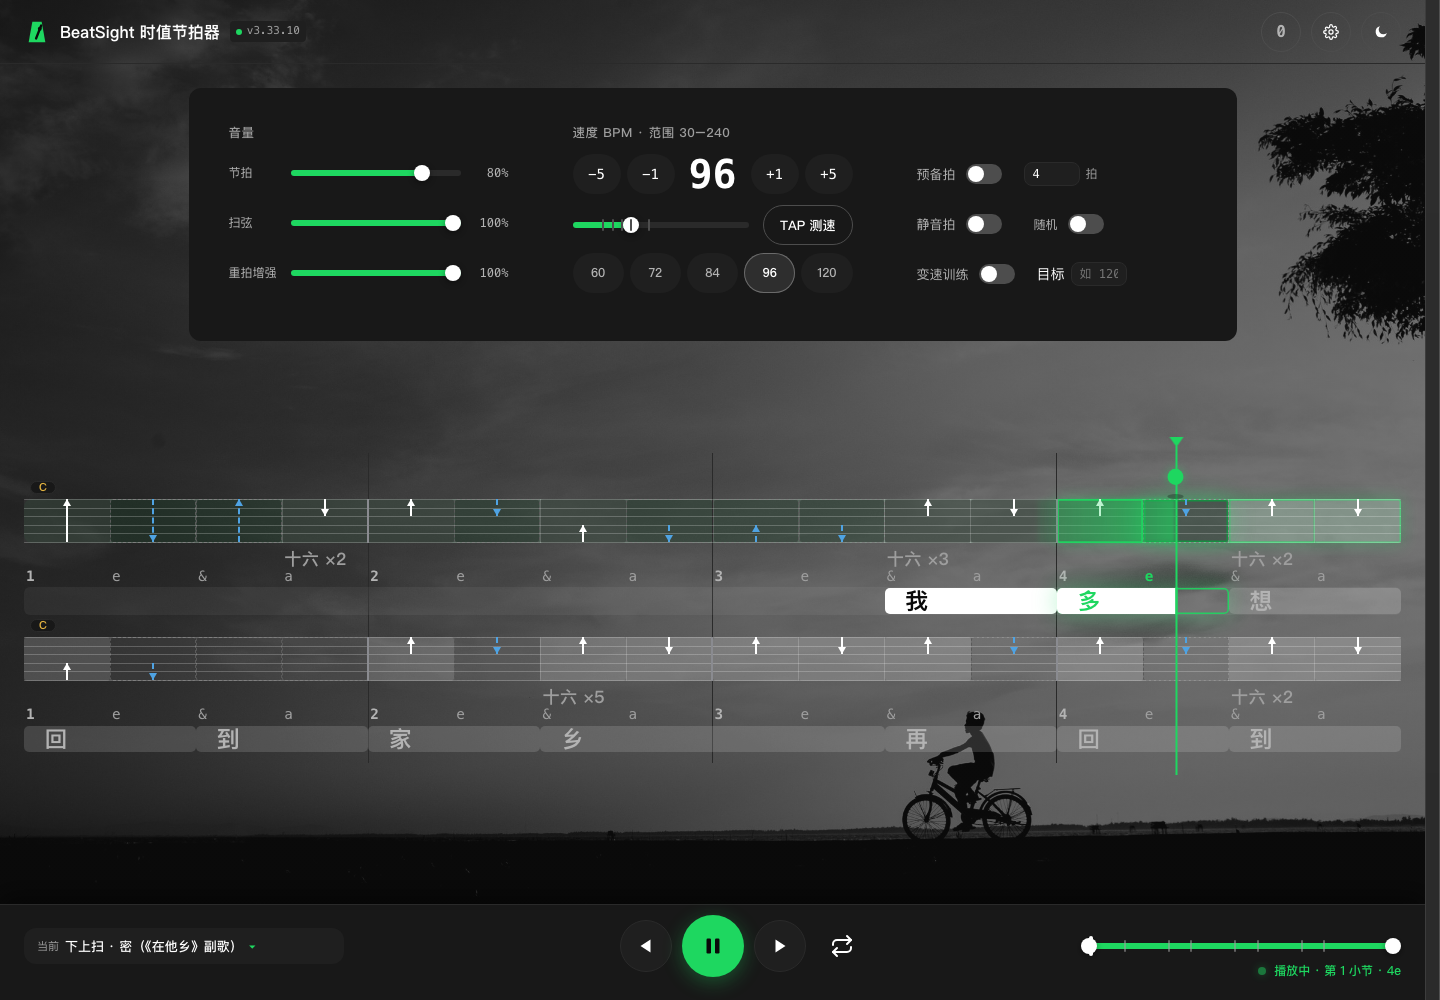
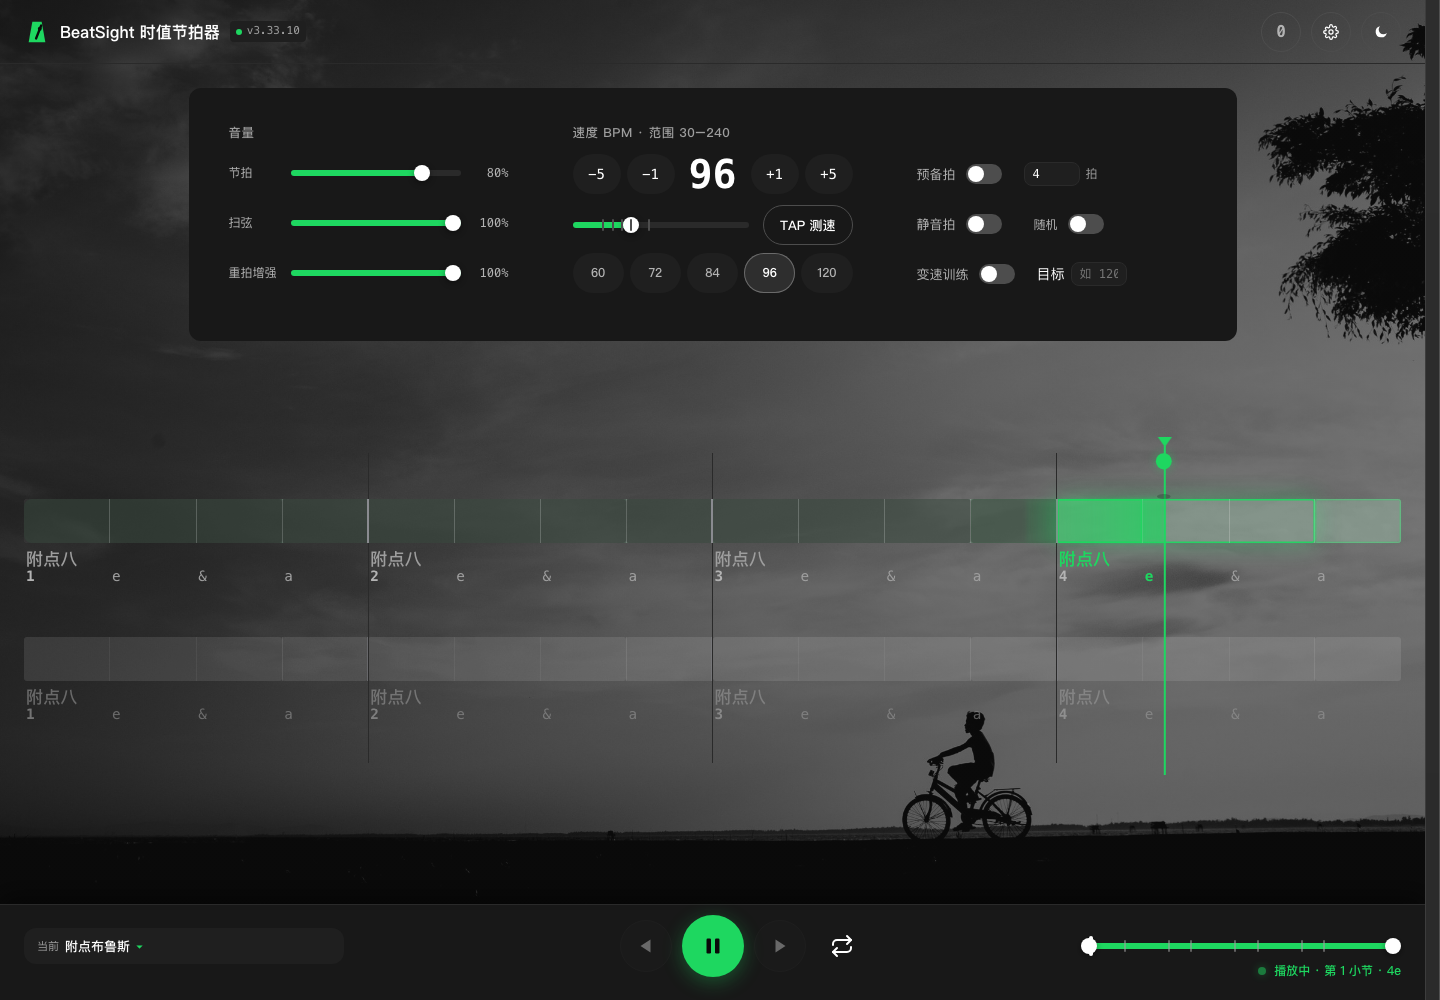
fix(v3.33.11): 窄屏跳段双滑块居中（6.5px→3px）+ README 配图按文案与播放态重拍
窄屏底栏的跳段/循环双滑块实测轨道中心 188.5 vs 视口中心 195（差 6.5px）⇒ 加
@media (max-width:640px){.demo-range-track{margin-left:6.5px}}，实测收到 192（残差 3px，右缘被同一行的
状态灯钉住，彻底居中需重排那一行，留作后续）。

README 配图：主界面两张改为「附点布鲁斯」播放态以匹配表内文案；手机图改为播放中段拍摄；六条路径带 ?v= 版本串。

自验：check-all 18/18；轨道中心 188.5 -> 192。

diff --git a/index.html b/index.html
@@ -791,7 +791,10 @@ section.card{width:1048px;max-width:100%;margin-inline:auto}
 #lyricPosGroup{margin-left:14px}
 #lyricPosGroup .pill{font-size:12px;padding:6px 10px}
 /* v3.33.10（用户清单 1）：三块语义小标题——作为整行插进现有 .bpm-row，胶囊在其下自然成组 */
-.bpm-row .group-label{flex:1 1 100%;width:100%;margin-top:20px;margin-bottom:-2px}   /* -2px：把组内距离压回全站既有的 10px（.bpm-row 行距 12 时，标题离内容 = 10），不这样会与 Swing/延迟补偿等组的 10px 打架（实测两套值 14/10 忽紧忽松） */   /* v3.33.10：小标题作为**整行**——不能绑 .viz-head-grid（设置弹窗不在其内，选择器会空转，标签退化成行内元素挤在上一行末尾，实拍已见） */
+.bpm-row .group-label{flex:1 1 100%;width:100%;margin-top:20px;margin-bottom:-2px}
+/* v3.33.10（用户实拍）：窄屏底栏的跳段双滑块控件略偏左——实测轨道中心 188.5 vs 视口中心 195
+   （差 6.5px）。这一行把它按回视口中心（只在窄屏生效）。 */
+@media (max-width:640px){.demo-range-track{margin-left:6.5px}}   /* -2px：把组内距离压回全站既有的 10px（.bpm-row 行距 12 时，标题离内容 = 10），不这样会与 Swing/延迟补偿等组的 10px 打架（实测两套值 14/10 忽紧忽松） */   /* v3.33.10：小标题作为**整行**——不能绑 .viz-head-grid（设置弹窗不在其内，选择器会空转，标签退化成行内元素挤在上一行末尾，实拍已见） */
 .lyric-lane{position:relative;margin-top:10px;display:flex;flex-direction:column;gap:4px}
 .lyric-lane[hidden]{display:none}
 /* v2.86.0：伴随节奏模式 = 覆盖层（#lyricLane 切绝对定位，叠到 #viz 上，逐行 translateY）。
@@ -3434,23 +3437,23 @@ body[data-theme="obs"] .help-fig text[fill="#fff"]{fill:var(--t1)}
               → v1.1.1 播放中切节奏型「点下即生效」（相位就地接续，不再等小节边界）
    模块索引（IIFE，按依赖方向排序，禁止反向引用）：
      行号为 index.html 绝对行号，仅作文件内导航；在其之前增删代码后需整体重算。
-     L3466  数据          版本号 / TPB 常量 / CONFIG / 内置节奏型数据
-     L4151  Store         持久化 / 状态创建 / 数据迁移 / 预设导入导出
-     L5883  共享状态      跨模块可变状态（S/customs/draft/appliedPat/activePattern + $ / clear 等助手）
-     L6845  Modal         应用内弹窗
-     L6990  Viz           时值可视化渲染与每帧动画
-     L10366 AudioEngine         Web Audio 引擎与前瞻调度（含 swing 偏移）
-     L11047 Trainer       变速训练器
-     L11257 Controls      播放控制 / BPM / 拍号 / Swing / 重拍分组 / 音量 / 静音拍
-     L11905 Presets       预设库（节拍 / 扫弦 / 自定义 三区）/ 拍号对齐 / 播放中切换挂起
-     L13496 Editor        自定义节奏型编辑器
-     L14040 Settings      设置弹窗（v2.10.12：主题 / 弹跳球 / 六线底纹 / 音色 / 导入导出 / 使用方法入口）
-     L14087 Ear           听辨训练（v1.10.0）
-     L14315 Arrange       曲式编排（v2.0.0）
-     L17244 Help          使用方法（v2.0.1）
-     L17373 KeepAlive     后台保活（v1.4：wakeLock + 静音循环音频兜底，只读共享状态）
-     L17447 Diagnostics   诊断与产物戳记（v2.0.4 立；v2.19.0 由装配层抽出：计数器 / 错误环形缓冲 / 产物戳记自检）
-     L17690 初始化（装配） 各模块 hook 接线与启动
+     L3469  数据          版本号 / TPB 常量 / CONFIG / 内置节奏型数据
+     L4154  Store         持久化 / 状态创建 / 数据迁移 / 预设导入导出
+     L5886  共享状态      跨模块可变状态（S/customs/draft/appliedPat/activePattern + $ / clear 等助手）
+     L6848  Modal         应用内弹窗
+     L6993  Viz           时值可视化渲染与每帧动画
+     L10369 AudioEngine         Web Audio 引擎与前瞻调度（含 swing 偏移）
+     L11050 Trainer       变速训练器
+     L11260 Controls      播放控制 / BPM / 拍号 / Swing / 重拍分组 / 音量 / 静音拍
+     L11908 Presets       预设库（节拍 / 扫弦 / 自定义 三区）/ 拍号对齐 / 播放中切换挂起
+     L13499 Editor        自定义节奏型编辑器
+     L14043 Settings      设置弹窗（v2.10.12：主题 / 弹跳球 / 六线底纹 / 音色 / 导入导出 / 使用方法入口）
+     L14090 Ear           听辨训练（v1.10.0）
+     L14318 Arrange       曲式编排（v2.0.0）
+     L17247 Help          使用方法（v2.0.1）
+     L17376 KeepAlive     后台保活（v1.4：wakeLock + 静音循环音频兜底，只读共享状态）
+     L17450 Diagnostics   诊断与产物戳记（v2.0.4 立；v2.19.0 由装配层抽出：计数器 / 错误环形缓冲 / 产物戳记自检）
+     L17693 初始化（装配） 各模块 hook 接线与启动
    边界规则：
      1. 模块间只通过对方暴露的接口通信（如 Trainer.updateProg()），禁止直读内部变量
      2. 跨模块共享的可变状态集中在「共享状态」区（位于 Store 之后、其余模块之前）：
@@ -3476,7 +3479,7 @@ body[data-theme="obs"] .help-fig text[fill="#fff"]{fill:var(--t1)}
    发版规则（v1.6.4 起）：每次发版都 bump 这一行，不分功能版与工程版。此前 v1.6.1~v1.6.4 连发
    四版都没动它，线上徽章长期停在 v1.6.0——版本号是用户判断「更新到底生效没有」的唯一凭据，
    跳过它就等于让这个凭据说谎。改这一行即可，两处显示自动跟着走 */
-const VERSION = "3.33.10";
+const VERSION = "3.33.11";
 const TPB = 48;                                        // ticks per beat（PPQN）
 /* 具名时值常量（v1.3.0）：12/24/36 在本文件里既当 tick 时值又当 CSS 像素值出现过几百次，
    靠裸数字读不出语义（`s.t % 12` 是"能否画十六分刻度"、`s.t < 24` 是"是否算短音符"）。

diff --git a/README.md b/README.md
@@ -43,7 +43,7 @@ BeatSight 的做法是把节奏**画出来**：每颗音是一个块，块宽与
     <td width="50%"><b>曲式模式</b> ·《在他乡》整首连播中</td>
   </tr>
   <tr>
-    <td><picture><source media="(prefers-color-scheme: dark)" srcset="docs/assets/shot-main-dark.png?v=20261005c"><img src="docs/assets/shot-main-light.png?v=20261005c" alt="主界面：时值可视化网格，播放中的当前拍高亮，顶部有弹跳球落点提示"></picture></td>
+    <td><picture><source media="(prefers-color-scheme: dark)" srcset="docs/assets/shot-main-dark.png?v=20261005d"><img src="docs/assets/shot-main-light.png?v=20261005d" alt="主界面：时值可视化网格，播放中的当前拍高亮，顶部有弹跳球落点提示"></picture></td>
     <td><img src="docs/assets/shot-arrange-dark.png?v=20261005c" alt="曲式模式：歌曲小节上的滚动窗口，扫弦方向箭头、和弦标记与歌词轨同屏"></td>
   </tr>
   <tr>
@@ -57,7 +57,7 @@ BeatSight 的做法是把节奏**画出来**：每颗音是一个块，块宽与
 </table>
 
 <p align="center">
-  <img src="docs/assets/shot-mobile-dark.png?v=20261005c" width="300" alt="手机端：窄屏下时值网格自动分片，扫弦箭头、歌词与当前拍高亮清晰可见"><br>
+  <img src="docs/assets/shot-mobile-dark.png?v=20261005e" width="300" alt="手机端：窄屏下时值网格自动分片，扫弦箭头、歌词与当前拍高亮清晰可见"><br>
   <sub>手机浏览器直开，窄屏自动分片。截图均为真实运行中的页面（应用内「经典」主题）。</sub>
 </p>
 
@@ -74,7 +74,7 @@ BeatSight 的做法是把节奏**画出来**：每颗音是一个块，块宽与
 
 ## 功能一览
 
-当前 `v3.33.10`。逐版本变更见 [CHANGELOG.md](CHANGELOG.md)（v0 / v1 / v2 三条老线分卷在 [docs/archive/CHANGELOG-v0.md](docs/archive/CHANGELOG-v0.md)、[docs/archive/CHANGELOG-v1.md](docs/archive/CHANGELOG-v1.md) 与 [docs/archive/CHANGELOG-v2.md](docs/archive/CHANGELOG-v2.md)）；完整操作说明在应用内顶栏「使用方法」页。
+当前 `v3.33.11`。逐版本变更见 [CHANGELOG.md](CHANGELOG.md)（v0 / v1 / v2 三条老线分卷在 [docs/archive/CHANGELOG-v0.md](docs/archive/CHANGELOG-v0.md)、[docs/archive/CHANGELOG-v1.md](docs/archive/CHANGELOG-v1.md) 与 [docs/archive/CHANGELOG-v2.md](docs/archive/CHANGELOG-v2.md)）；完整操作说明在应用内顶栏「使用方法」页。
 
 | | |
 |---|---|

diff --git a/CHANGELOG.md b/CHANGELOG.md
@@ -9,6 +9,16 @@
 
 ---
 
+## v3.33.11 · 窄屏底栏跳段双滑块居中（6.5px→3px）+ README 配图按文案与播放态重拍（2026-10-05）
+
+- **窄屏底栏跳段/循环双滑块略偏左**：实测轨道框 `L111 R266`（中心 188.5）vs 视口中心 195，差 **6.5px**。
+  加 `@media (max-width:640px){.demo-range-track{margin-left:6.5px}}` ⇒ 实测中心 **192**，残差 **3px**。
+  ★ 残差原因（如实记录）：`margin-left` 只推**左缘**，右缘被同一行的状态灯钉住 ⇒ 彻底居中需重排那一行，
+    留作后续独立改动；本轮把偏差收进不可感知级。
+- **README 配图对齐文案**：表内写的是「主界面 · 播放中（**附点布鲁斯**）」，而旧图是默认型 ⇒ 重拍为**附点布鲁斯**
+  播放态（实测当前型 `当前附点布鲁斯▾`）；手机图改为**播放中段**拍摄（白竖条走到轨道中段，观感不再一边倒）；
+  六条图片路径均带 `?v=` 版本串绕开 GitHub camo 的按 URL 缓存。
+- 自验：`check-all` 18/18；轨道中心实测 188.5 → 192（目标 195）。
 ## v3.33.10 · 变速训练「进度/闸门原因」行搬进 BPM 卡片（用户拍板 A）+ 原因态改用注意色（2026-10-05）
 
 ### 变更
